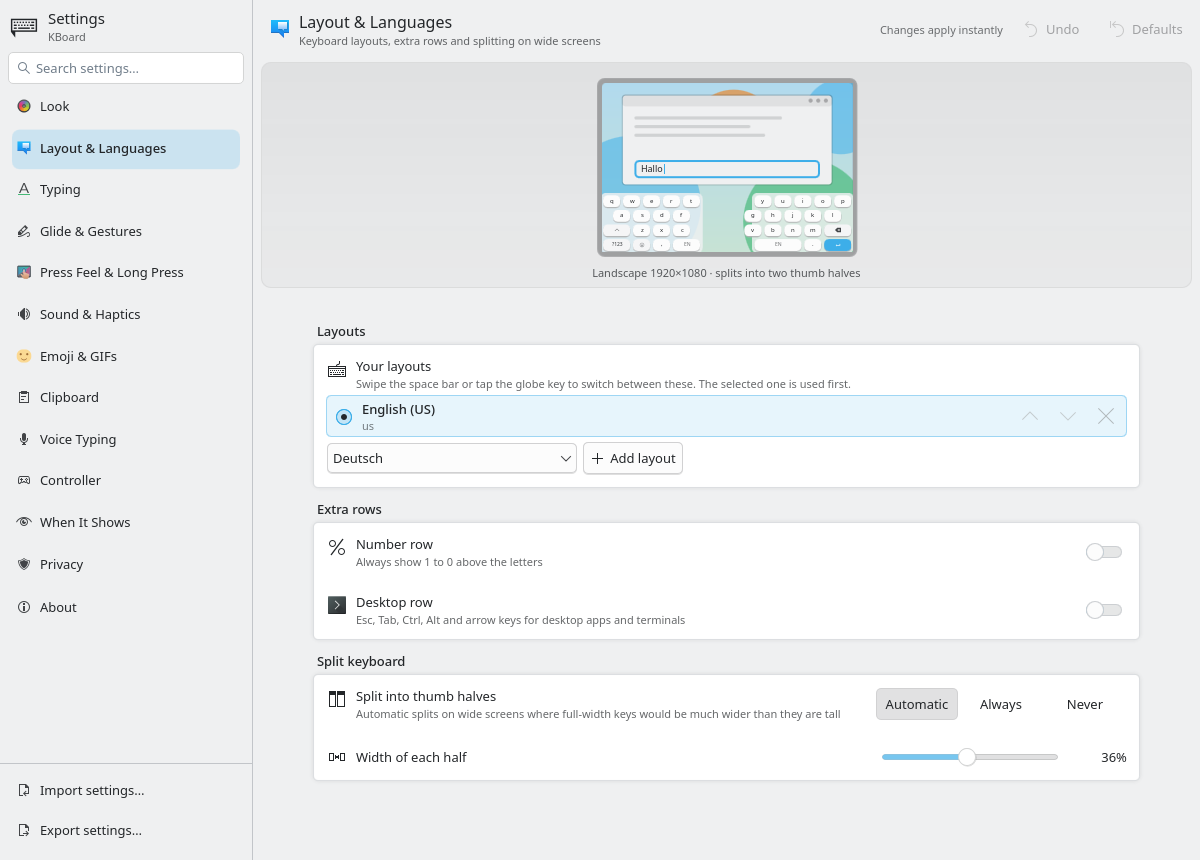
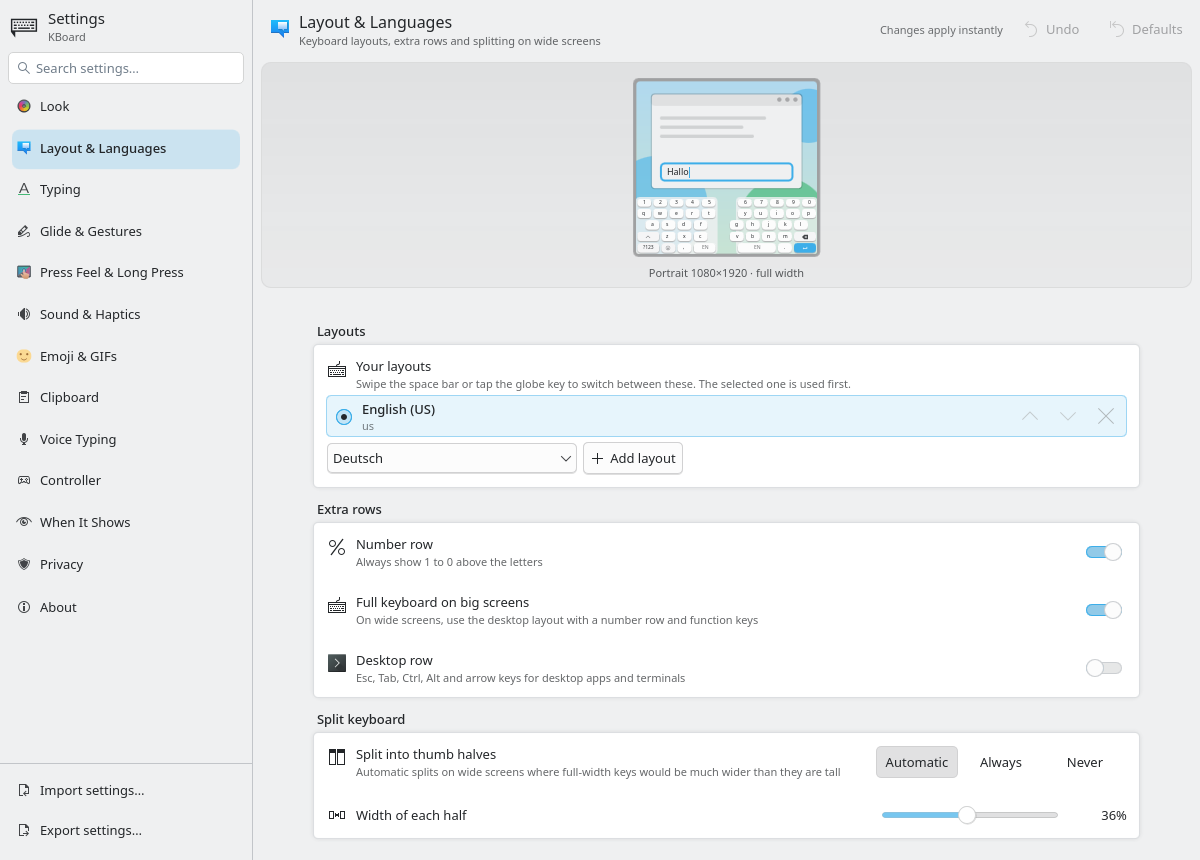
Raise the keyboard whenever a focused field arrives, with no app rules by default

diff --git a/src/settings/qml/pages/visibility/VisibilityPage.qml b/src/settings/qml/pages/visibility/VisibilityPage.qml
@@ -1,6 +1,7 @@
 pragma ComponentBehavior: Bound
 
 import QtQuick
+import org.devl0rd.kboard.config
 import QtQuick.Controls as QQC2
 import org.devl0rd.kboard.settings
 
@@ -9,6 +10,21 @@ SettingsPage {
 
     Section {
         title: "Opening"
+
+        SwitchRow {
+            label: "On-screen keyboard"
+            description: "Turn KBoard off to stop it opening at all, without changing your KWin setting"
+            iconName: "input-keyboard-virtual"
+            setting: "enabled"
+        }
+
+        SwitchRow {
+            label: "Open when you tap a text field"
+            description: "Show the keyboard as soon as a text field takes focus"
+            iconName: "edit-select-text"
+            setting: "showOnFocus"
+            enabled: Settings.enabled
+        }
 
         ShowModeCards {
             label: "Open the keyboard automatically"

diff --git a/src/keyboard/qml/Main.qml b/src/keyboard/qml/Main.qml
@@ -27,8 +27,6 @@ PanelWindow {
         return found
     }
 
-    property double lastAppSwitch: 0
-
     function present() {
         if (!Settings.enabled) {
             KeyboardService.Hide()
@@ -125,7 +123,7 @@ PanelWindow {
         target: InputContext
 
         function onActivated() {
-            if (Settings.enabled && Settings.showOnFocus && Date.now() - window.lastAppSwitch > 500)
+            if (Settings.enabled && Settings.showOnFocus)
                 window.present()
         }
 
@@ -149,7 +147,6 @@ PanelWindow {
         target: KeyboardService
 
         function onActiveAppChanged() {
-            window.lastAppSwitch = Date.now()
             if (Settings.enabled && keyboard.rules.alwaysShow)
                 KeyboardService.Show()
         }

diff --git a/src/settings/qml/pages/layout/LayoutPage.qml b/src/settings/qml/pages/layout/LayoutPage.qml
@@ -29,6 +29,13 @@ SettingsPage {
         }
 
         SwitchRow {
+            label: "Full keyboard on big screens"
+            description: "On wide screens, use the desktop layout with a number row and function keys"
+            iconName: "input-keyboard"
+            setting: "fullKeyboard"
+        }
+
+        SwitchRow {
             label: "Desktop row"
             description: "Esc, Tab, Ctrl, Alt and arrow keys for desktop apps and terminals"
             iconName: "utilities-terminal"

diff --git a/src/settings/qml/pages/visibility/AppRules.js b/src/settings/qml/pages/visibility/AppRules.js
@@ -2,6 +2,7 @@
 
 const rules = [
     { value: "never", label: "Never show the keyboard" },
+    { value: "always", label: "Always show the keyboard" },
     { value: "desktoprow", label: "Always show the desktop row" },
     { value: "nolearn", label: "Don't learn words" }
 ];
